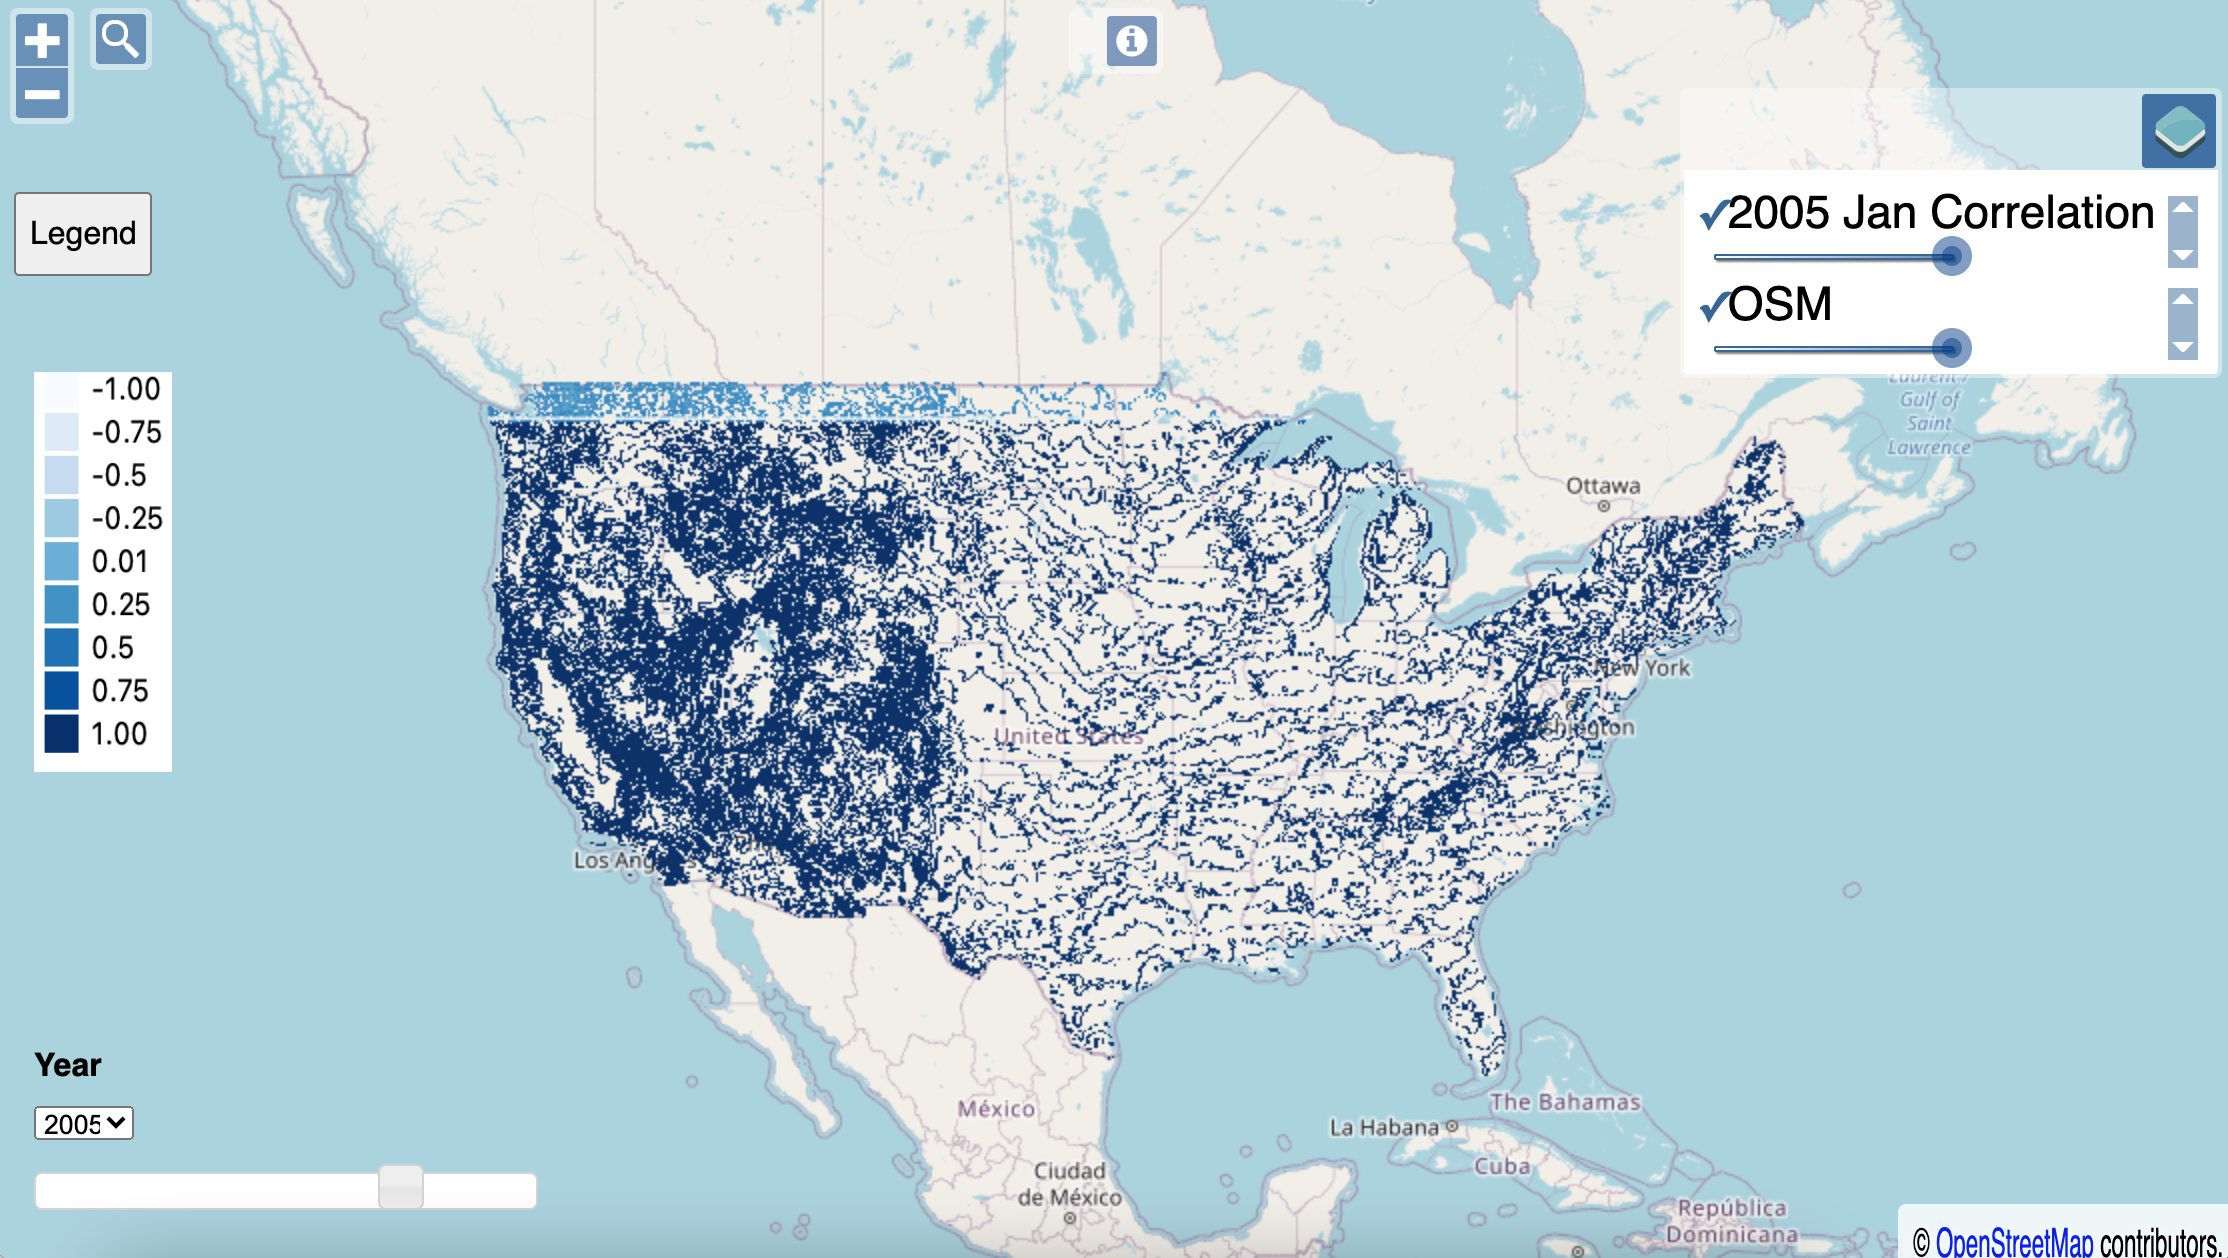
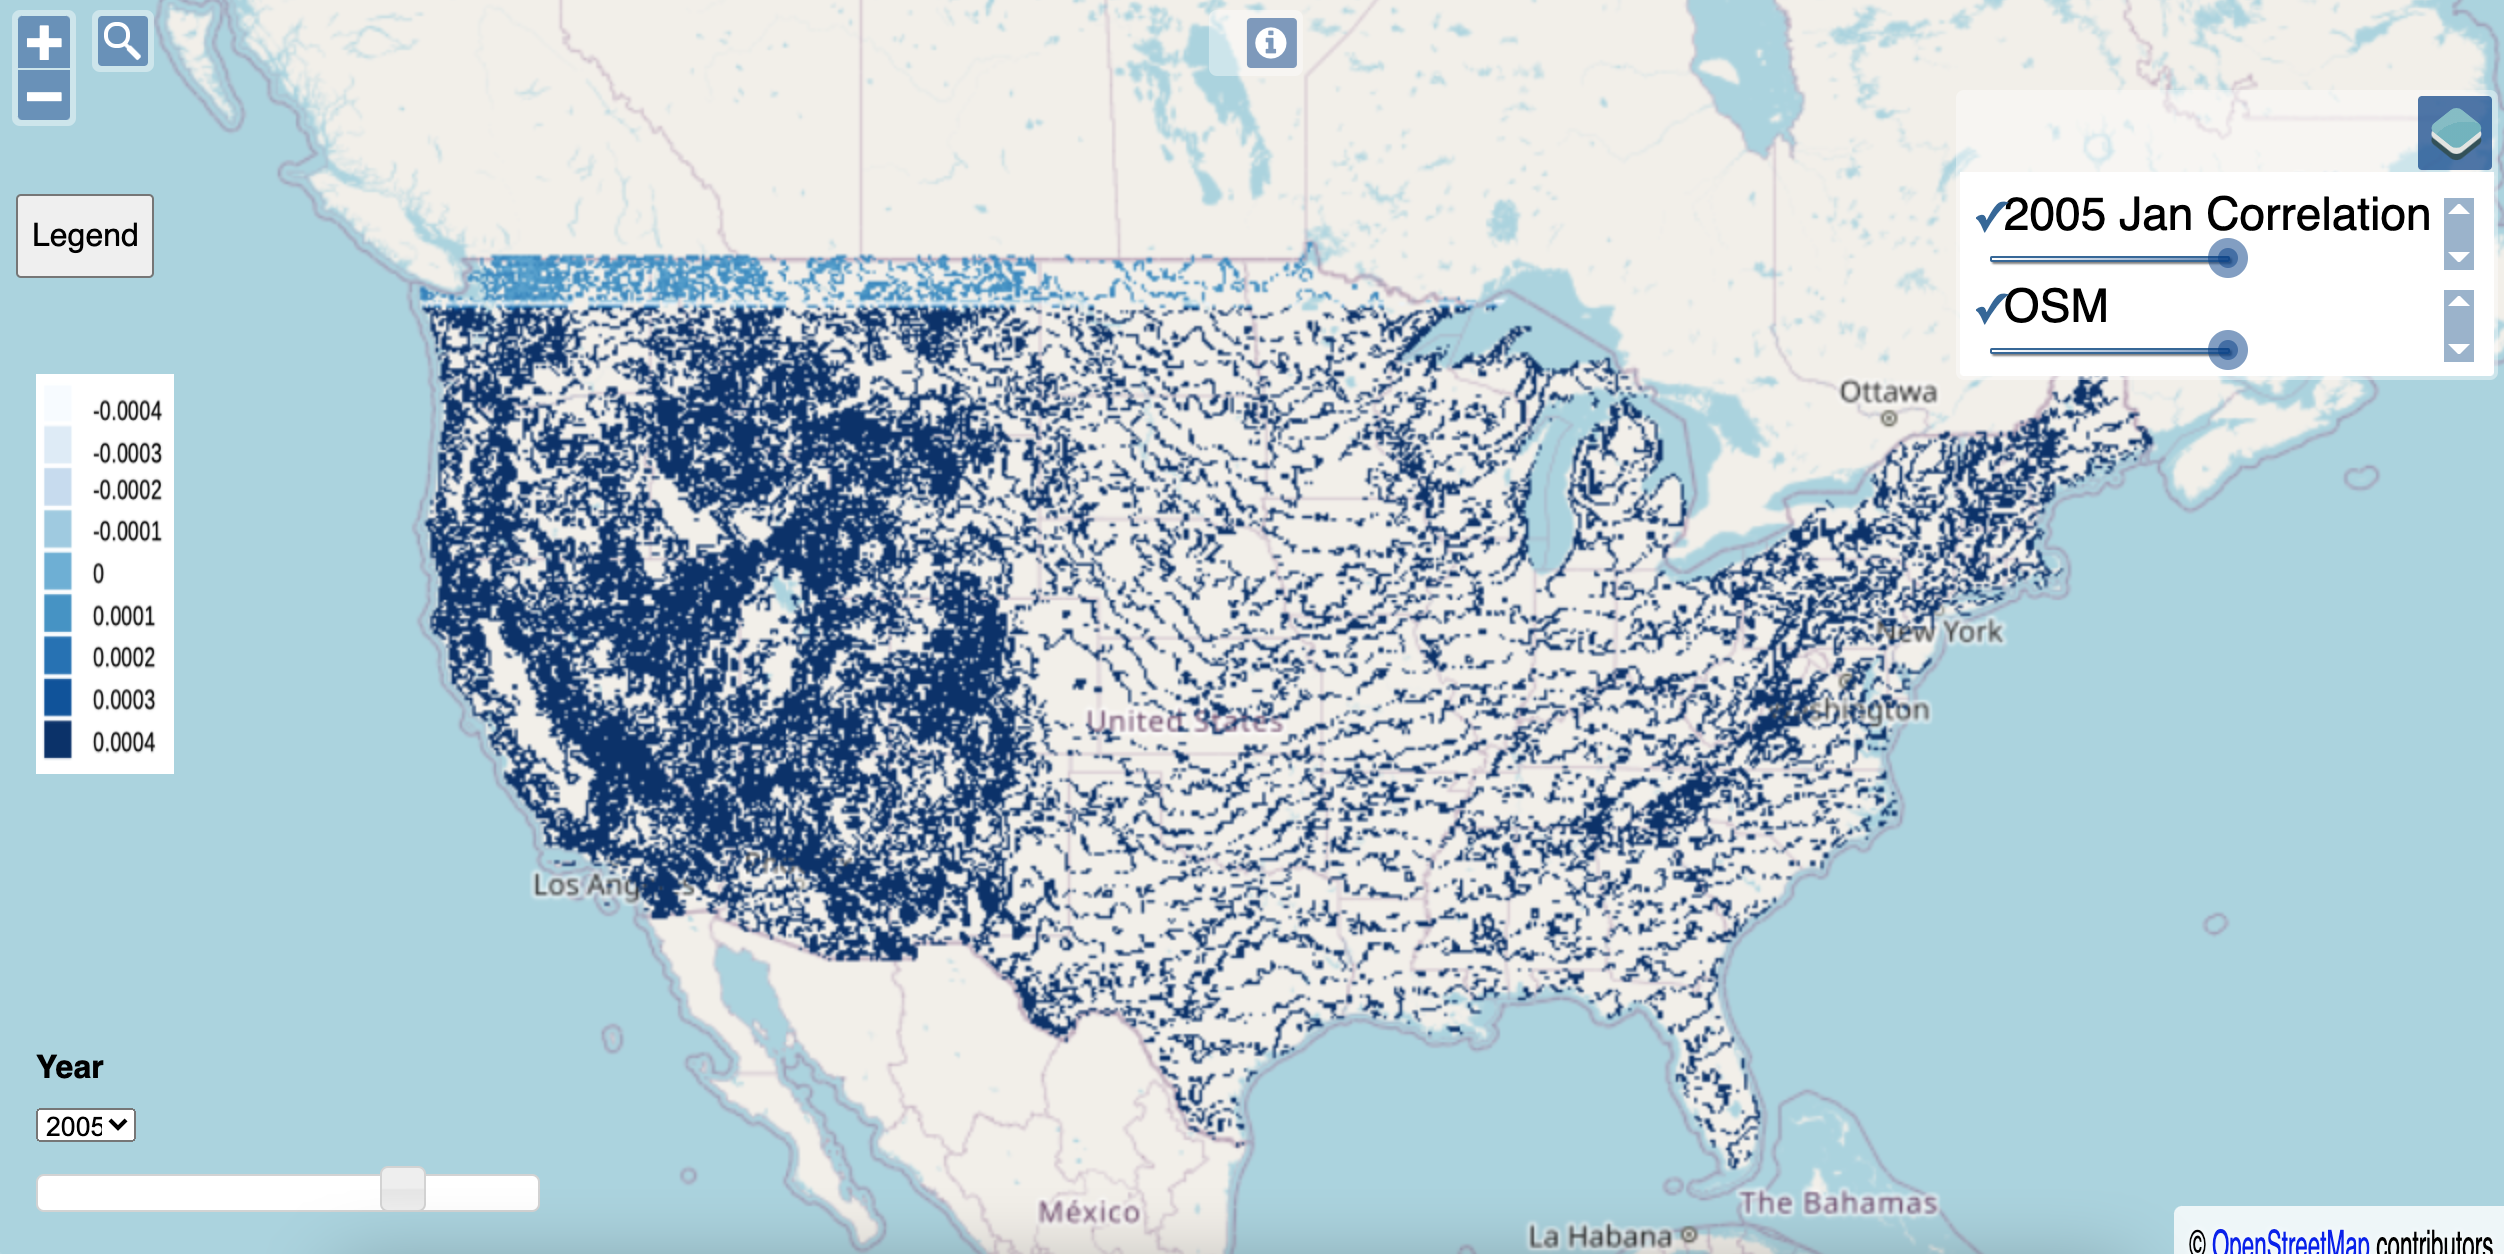
commit 95

diff --git a/polar_landing/index.html b/polar_landing/index.html
@@ -82,7 +82,7 @@ Replace '0' with corresponding slide number.
  <div style="margin: 0 auto; text-align: center">
   <H3>Blogs and such</H3>
     <p>
-    <a href="https://github.com/DavidLeifer/polarbearGIS">GitHub</a><br>
+    <a href="https://gitlab.com/davleifer/polarbearGIS">GitLab</a><br>
     <a href="https://www.davidjleifer.com/blogs/part1.html">Part 1: Setting up Geoserver on Google Cloud Platform for Timeseries Raster Display</a><br>
     <a href="https://www.davidjleifer.com/blogs/part2.html">Part 2: Adding Steez to Geoserver Timeseries Rasters with QGIS SLD</a><br>
     <a href="https://www.davidjleifer.com/blogs/part3.html">Part 3: Adding a Legend and Toggle Button Using OpenLayers for Geoserver Timeseries Raster</a><br>

diff --git a/pandamoniumGIS20210110_tmeanbuild/index.html b/pandamoniumGIS20210110_tmeanbuild/index.html
@@ -96,7 +96,7 @@
     <div class="about" style="display:none">
       <h1 class="button">About...</h1>
       <p>
-        This is Pearson Correlation (-1 to 1) between temperature
+        This is Pearson Correlation (-.0004 to .0004) between temperature
         compared with the year's El Nino index (degrees C above/below 5 month running mean).
       </p>
       <p class="buttons">

diff --git a/scripts/python/show_test.py b/scripts/python/show_test.py
@@ -1,0 +1,16 @@
+import rasterio
+from rasterio.plot import show
+
+#read tif back in and show it
+pearsonr_test = "/home/davleifer/polarbearGIS/data/ppt_pearson_final/ppt_pearson_final_1981.tif"
+
+width = 1405
+height = 621
+with rasterio.open(pearsonr_test, mode="r+") as src:
+    pearsonr_test_var = src.read(1, out_shape=(1, int(height), int(width)))
+
+show(pearsonr_test_var)
+
+for i in pearsonr_test_var:
+	for ii in i:
+		print(ii)

diff --git a/scripts/python/ppt_cor_actually.py b/scripts/python/ppt_cor_actually.py
@@ -57,6 +57,7 @@ for example_tif, index_tif in zip(ppt_bil2tif_resize_list,ppt_pearson_output_lis
     newarr2 = np.nan_to_num(x=newarr,nan=-9999,posinf=.00001,neginf=-.00001)
     newarr2[newarr2 == .00001] = -9999
     newarr2[newarr2 == -.00001] = -9999
+    newarr2[newarr2 == 0] = -9999
     newarr2[newarr2 == 1] = -9999
     newarr2[newarr2 == -1] = -9999
 

diff --git a/README.md b/README.md
@@ -15,10 +15,9 @@ A pipeline for GIS climate raster data. A script of scripts, using GCP.</br>
 
 ### Support PolarbearGIS
 * Polarbears are vulnerable!
-* Star, fork and watch it on Github.
-* Contribute <a href="https://github.com/DavidLeifer/polarbearGIS/issues">bug reports or suggest features</a>
-* Translate it into a different language and have </br>
-![Fun](/imgs/fun.gif?raw=true)
+* Star and fork it on GitLab
+* Contribute bug reports or suggest features
+* Translate it into a different language
 
 ### Screenshots
 1. Temperature Correlated with nino34 Index
@@ -33,16 +32,23 @@ A pipeline for GIS climate raster data. A script of scripts, using GCP.</br>
 ### Usage on Debian
 1. Update `sudo apt update`
 2. Install Git `sudo apt install git`
-3. Clone Repository `sudo git clone https://github.com/DavidLeifer/polarbearGIS.git`
+3. Clone Repository `sudo git clone https://gitlab.com/davleifer/polarbearGIS.git`
 4. `cd polarbearGIS`
 5. Make executable `chmod u+x pipeline.sh`
 6. Run the program `./pipeline.sh`
 
 ### Summary
-PolarbearGIS is a spatiotemporal data pipeline at the intersection of climatological, computer science, and geospatial technologies. The processing occurs on a Google Cloud Platform Debian instance and is orchestrated by a BASH script, installing libraries required for Python, R, NPM, and compiling GDAL from source to generate XYZ tile files. Data is downloaded through an R script and a module called Prism to examine the El Nino-Southern Oscillation (ENSO), which is said to control precipitation and temperature in the Pacific North West and Southeastern United States.</br></br>
+PolarbearGIS is a simple data pipeline at the intersection of climatological, computer science, and geospatial technologies. The processing occurs on a Google Cloud Platform Debian instance and is orchestrated by a BASH script, installing libraries required for Python, R, NPM, and compiling GDAL from source to generate XYZ tile files. Data is downloaded through an R script and a module called Prism to examine the El Nino-Southern Oscillation (ENSO), which is said to control precipitation and temperature in the Pacific North West and Southeastern United States.
+
+
+
+
 By manipulating such Python libraries as Rasterio, GDAL, Geopandas, SciPy, Numpy, and Seaborn, correlation between the nino34 index and climate rasters has been achieved for 33 years of data. Analysis of the Variance of the Means (ANOVA) and mean groupings for El Nino, La Nina, and Neutral years are further used to examine spatial and statistical patterns. Tweepy, geocoder, and NLTK are also utilized to create geojson files of twitter sentiment to be displayed overlaid radar data of a winter storm event dubbed the Polar Vortex of 2019. NPM installs OpenLayers packages and are choreographed to generate space-time visualizations for display across multiple browsers and platforms.
-</br></br>
-Some of the technical details are outlined in my blog, which can be found on my website and were generated using LibreOffice's save to HTML function. This is the most FOSS4G I could think of. </br>
+
+
+
+
+Some of the technical details are outlined in my blog, which can be found on my website and were generated using LibreOffice's save to HTML function. This is the most FOSS4G I could think of.
 
 ### Features
 * Generation of a series of rasters from a csv index
@@ -85,12 +91,20 @@ Some of the technical details are outlined in my blog, which can be found on my 
   * GDAL: https://gdal.org/download.html
 
 ### TODO 
-05/29/2021:</br>
-- GDAL -v 3.3.0 XYZ Tiles work (with color), need to build for the 33 years of prec, temp, and mean groupings: https://stackoverflow.com/questions/2437452/how-to-get-the-list-of-files-in-a-directory-in-a-shell-script</br>
-- Need to add a gdrive link to download the json of twitter sentiment so I can run the python scripts to split the data into a geojson file for each 15 minute time stamp to feed into the ol map</br>
-- Might add a streamhist function from ye ol farmer’s package to polar vortex, might be overkill tbh</br>
-- Have to install npm and build the web files, might also be overkill</br>
-- Finish GeoStreamable?</br>
+06/01/2021:</br>
+- Somehow getting wildly different ppt/nino34 cor values on debian as opposed to mac, maybe i need a fresh instance and reinstall everything (gonna have to test that eventually anyway). e.g. mac=1.2e3; debian=1.2e12. Difficulty: Hard (probably)
+- Quantile breaks look better than equal intervals, but id have to calculate the correct quantile breaks for 33 years and put it in 33 .txt files, make a list of all the txt files and feed it into the coloring step in pipeline.sh, also have to change the legend for each xyz in the web app part to reflect the different breaks, probably could do it with a for loop in js and place all the legend .png into their own directory. Difficulty: Medium
+- Include ANOVA values in the el nino, la nina, and neutral temp/ppt applications (already have values, just do some html/css). Difficulty: Easy (probably)
+- Map maps of the average El Niño – neutral January temperature and the average La Niña – neutral January temperature. Map the same maps for the precipitation differences. Difficulty: Easy
+- Build XYZ tiles for the previous map and include it in another application, link in polar_landing. Difficulty: Easy
+- Build tiles for the 33 years of temp by copying bash code from ppt and manipulating display options. Difficulty: Easy
+- Add a gdrive link to download the json of twitter sentiment so I can run the python scripts to split the data into a geojson file for each 15 minute time stamp to feed into the ol map. Difficulty: Easy
+- Install npm and build the web files, follow steps from my blog that I did in Jan. Difficulty: Easy (probably)
+- Move the info window in the app to appear in front of the legend, otherwise it is partially blocked on mobile. Difficulty: Easy
+- Add logic to change year and slider position based on drop down input. Difficulty: Medium
+- Refactor code into OOP so it is more reusable. Difficulty: Hard
+- Add a streamhist function from ye ol farmer’s package to polar vortex? Difficulty: Medium
+- Finish GeoStreamable? Difficulty: Hard
 
 ### GeoStreamable
 - SCRIPT
@@ -100,10 +114,7 @@ Some of the technical details are outlined in my blog, which can be found on my 
 4. Point in polygon and round the data to 15 minute increments and save as a geojson file
 - APPLICATION
 5. Ingest each file and programmatically add to map
-6. Add popup info window to tweet to display text but noo personally identifiable information from the user (as carefully stipulated in the docs)
+6. Add popup info window to display tweet text but noo personally identifiable information from the user (as carefully stipulated in the docs)
 
 ### Polar Bears
-Got an angel on my left shoulder, a devil on the polar</br>
-Got a mug a frigid, got a mug a solar, sliiiide over</br>
-
 ![Polar Bears](/imgs/polar-bears.png?raw=true)
